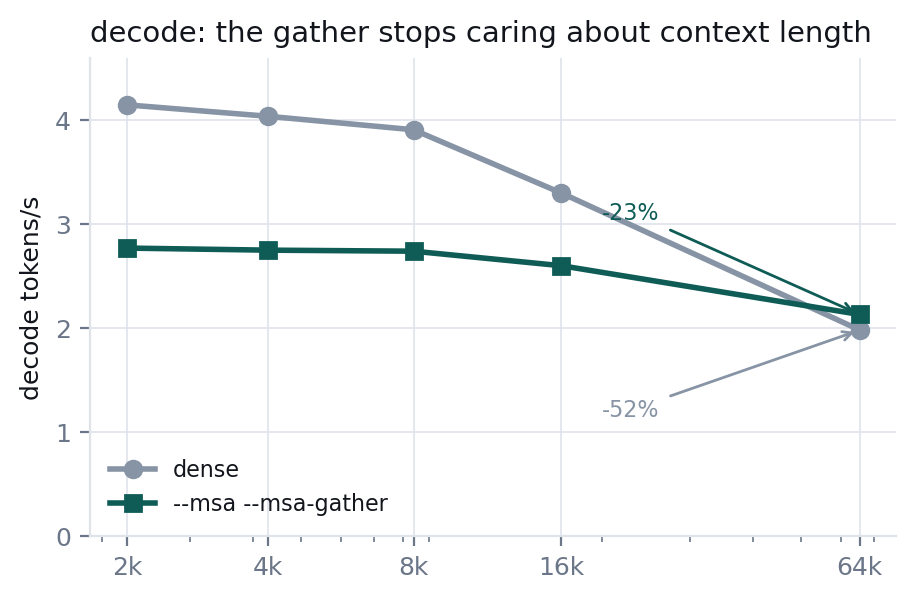
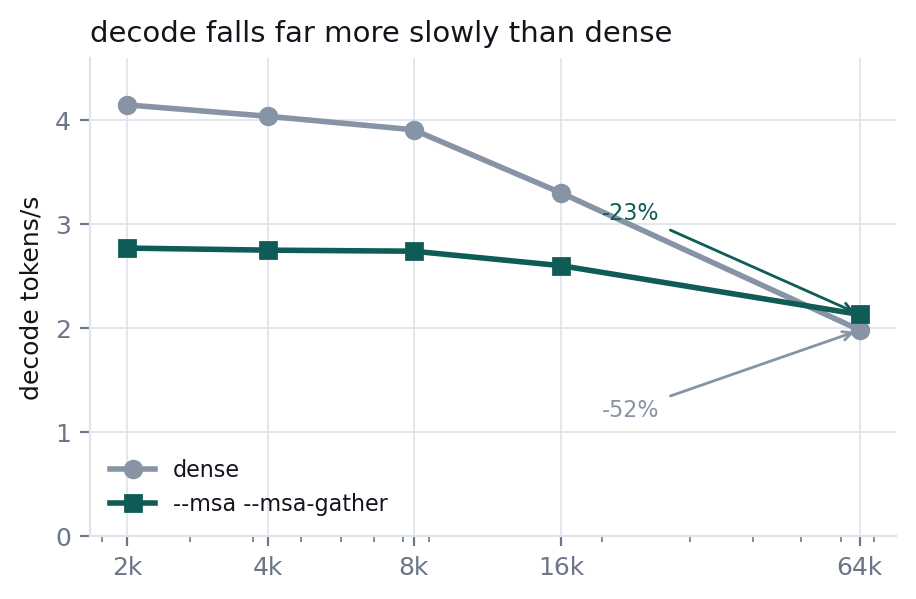
docs : the 12.8x buffer saving was against code this branch does not replace
Phase-4 confirmation caught the largest remaining overclaim in this file.

The compute-buffer section credited the cell list with taking 17,258 MiB down to
1,350 at 64k. That law was measured on the ORIGINAL wide-mask implementation.
The parent commit's per-GQA split had already brought the shipped mask path --
the very arm in this document's own results table -- to 1,601.57 MiB. So the
like-for-like saving from this change is 16 percent, not 12.8x, and most of the
growth was removed by the split rather than by the cell list. Both curves are
now plotted and the text says which is which.

Two smaller items from the same pass: the decode chart was still titled 'the
gather stops caring about context length', the exact claim the prose had already
been softened away from, and the compute-buffer chart carried two orphaned
labels from the dropped 128k series, floating outside the axes.

Also tightens the noise-floor wording: a difference of two runs each +-1.1% is
consistent with zero out to about +-2.2%, so 1.02x is described that way rather
than as 'inside the +-1.1% floor'.

Changed region(s): [[0.214, 0.0301, 0.9476, 0.0902]]

diff --git a/docs/msa/README.md b/docs/msa/README.md
@@ -123,7 +123,8 @@ best (512) — see the caveat below, it matters.
 
 **Every number here is a single run, and the measured run-to-run spread on this machine is ±1.1%**
 (three interleaved runs of the same configuration, across two builds already shown to be
-output-identical, gave 51.22 / 50.72 / 50.10 t/s). A fourth run taken
+output-identical, gave 51.22 / 50.72 / 50.10 t/s — so a difference of two runs is consistent with
+zero out to about ±2.2%). A fourth run taken
 immediately after a change of regime came in 18% low, so first-run-after-a-change is discarded.
 Read the 64k ratios, which are 39% and 16%, as real; read anything within a couple of percent as no
 difference.
@@ -170,7 +171,7 @@ this branch has nothing to offer you.
 
 ![decode vs context](advantage-vs-context.png)
 
-At 16k the prefill difference is inside the ±1.1% noise floor (1.02x in one pair, 0.99x in
+At 16k the prefill difference is consistent with zero given that floor (1.02x in one pair, 0.99x in
 another), so the honest statement is that there is **none measurable**. Decode is **0.79x**, well
 outside it: at that depth the feature is a real net loss on decode. The gathered attention is
 nearly flat in `n_kv` while dense attention is not, so the advantage only appears with depth; the
@@ -197,8 +198,11 @@ dense for the metric you care about, the decode win is about 8%.
 
 ![compute buffer](compute-buffer.png)
 
-1,350 MiB at 64k, where the mask path's own measured law predicts 17,258 MiB — so replacing the mask
-with a cell list removes most of the growth, but **not all of it**.
+1,350 MiB at 64k. The **original wide-mask** implementation's measured law
+(`0.262268 x n_kv + 70 MiB`) predicts 17,258 MiB there — but that is not the arm this document
+benchmarks. The parent commit's per-GQA split already brought the shipped mask path to
+**1,601.57 MiB** at 64k, so the like-for-like saving from the cell list is **16%
+(1,602 -> 1,350), not 12.8x**. Most of the growth was removed by the split, not by this change.
 
 At a matched `-ub 512`, dense's compute buffer is flat: 402.75 MiB at both 16k and 64k. The
 gather's goes 402.75 -> 1,350.49 over the same span. So at equal context and equal ubatch the
